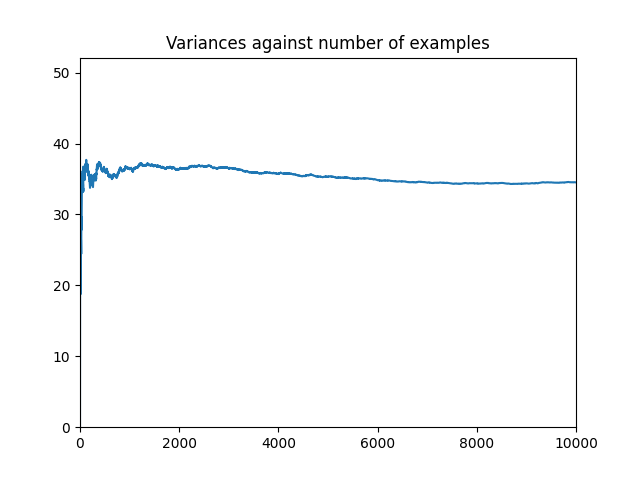
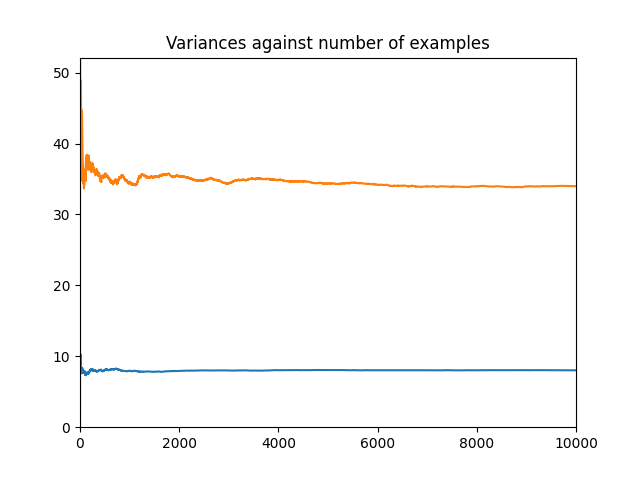
some improvements

Changed region(s): [[0.125, 0.2188, 0.9062, 0.4062], [0.125, 0.75, 0.9062, 0.7812]]

diff --git a/assignment-1/ex1.py b/assignment-1/ex1.py
@@ -4,6 +4,8 @@ import random
 import matplotlib.pyplot as plt
 
 """
+Problems data
+
 mean_1, var_1 = -2, 2
 mean_2, var_2 = 4, 1
 mean_3, var_3 = 10, 3
@@ -19,14 +21,15 @@ p_4 = 0.25
 f_4 = 1
 """
 
+#Class to model the conditional Gaussian in our example
 class ConditionalGaussian:
 
     def __init__(self, means, variances, probabilities):
         if(sum(probabilities) != 1):
-            print("Probabilities do not respect probabilities axioms")
+            raise ValueError("Probabilities do not respect probabilities axioms")
 
         if(len(probabilities) != len(means) & len(means) != len(variances)):
-            print("Not ok data")
+            raise ValueError("Not ok data")
         
         self.means = means
         self.variances = variances
@@ -62,6 +65,19 @@ class ConditionalGaussian:
                     return float(np.random.normal(self.means[i], np.sqrt(self.variances[i]), 1)[0])
                 else:
                     continue
+    
+    def better_sample(self):
+        """
+        We use random.choices to choose from which Gaussian to sample
+        """
+
+        index = random.choices(range(len(self.probabilities)), weights=self.probabilities)[0]
+
+        mean = self.means[index]
+        variance = self.variances[index]
+        return random.gauss(mean, np.sqrt(variance))
+
+
 
 myvar = ConditionalGaussian([-2, 4, 10, 15], [2, 1, 3, 2], [0.15, 0.25, 0.35, 0.25])
 print("Theoretical mean: " + str(myvar.get_conditioanl_mean()))
@@ -77,19 +93,21 @@ offset = 10_000
 
 for i in range(N):
     samples.append(myvar.sample())
-    
+    #samples.append(myvar.better_sample())
+
     if(i < offset):
         examples.append(i)
         means.append(float(np.mean(samples)))
         variances.append(np.var(samples))
 
+#Playing with the plots
 yticks1 = 1
 yticks2 = 1
 
 plt.title('Means against number of examples')
 plt.xlim(0, offset)
 plt.ylim(0, myvar.get_conditioanl_mean()*2)
-plt.yticks(np.arange(0, myvar.get_conditioanl_mean()*2, yticks1))
+#plt.yticks(np.arange(0, myvar.get_conditioanl_mean()*2, yticks1))
 plt.plot(examples, means)
 plt.savefig('./assignment-1/mean.png')
 
@@ -106,14 +124,6 @@ plt.savefig('./assignment-1/variance.png')
 empirical_mean_dataset, empirical_var_dataset = np.mean(samples), np.var(samples)
 print("Dataset mean: " + str(empirical_mean_dataset), "\nDataset variance: " + str(empirical_var_dataset))
 
-"""
-computed_mean = mean_1 * p_1 + mean_2 * p_2 + mean_3 * p_3 + mean_4 * p_4
-print("Computed mean: " + str(computed_mean))
-
-computed_variance = (p_1*var_1 + p_2*var_2 + p_3*var_3 + p_4*var_4) + (p_1*((mean_1-computed_mean)**2) + p_2*((mean_2-computed_mean)**2) + p_3*((mean_3-computed_mean)**2) + p_4*((mean_4-computed_mean)**2))
-print("Computed variance: " + str(computed_variance))
-"""
-
 
 #Var(X) = E[Var(X|Y)] + Var(E[X|Y])
 #X is my conditional distribution
@@ -121,6 +131,6 @@ print("Computed variance: " + str(computed_variance))
 #X | Y is one of the gaussians
 
 #E[X] = E[X|Y1]P(Y1) + E[X|Y2]P(Y2) + E[X|Y3]P(Y3) + E[X|Y4]P(Y4)
-#E[X|Y] is given
+#E[X|Y1] is given, then E[X|Y] = E[X]
 #E[Var(X|Y)] = p_1*var_1 + p_2*var_2 + p_3*var_3 + p_4*var_4
 #Var(E[X|Y]) = p_1*((mean_1-computed_mean)**2) + p_2*((mean_2-computed_mean)**2) + p_3*((mean_3-computed_mean)**2) + p_4*((mean_4-computed_mean)**4)
